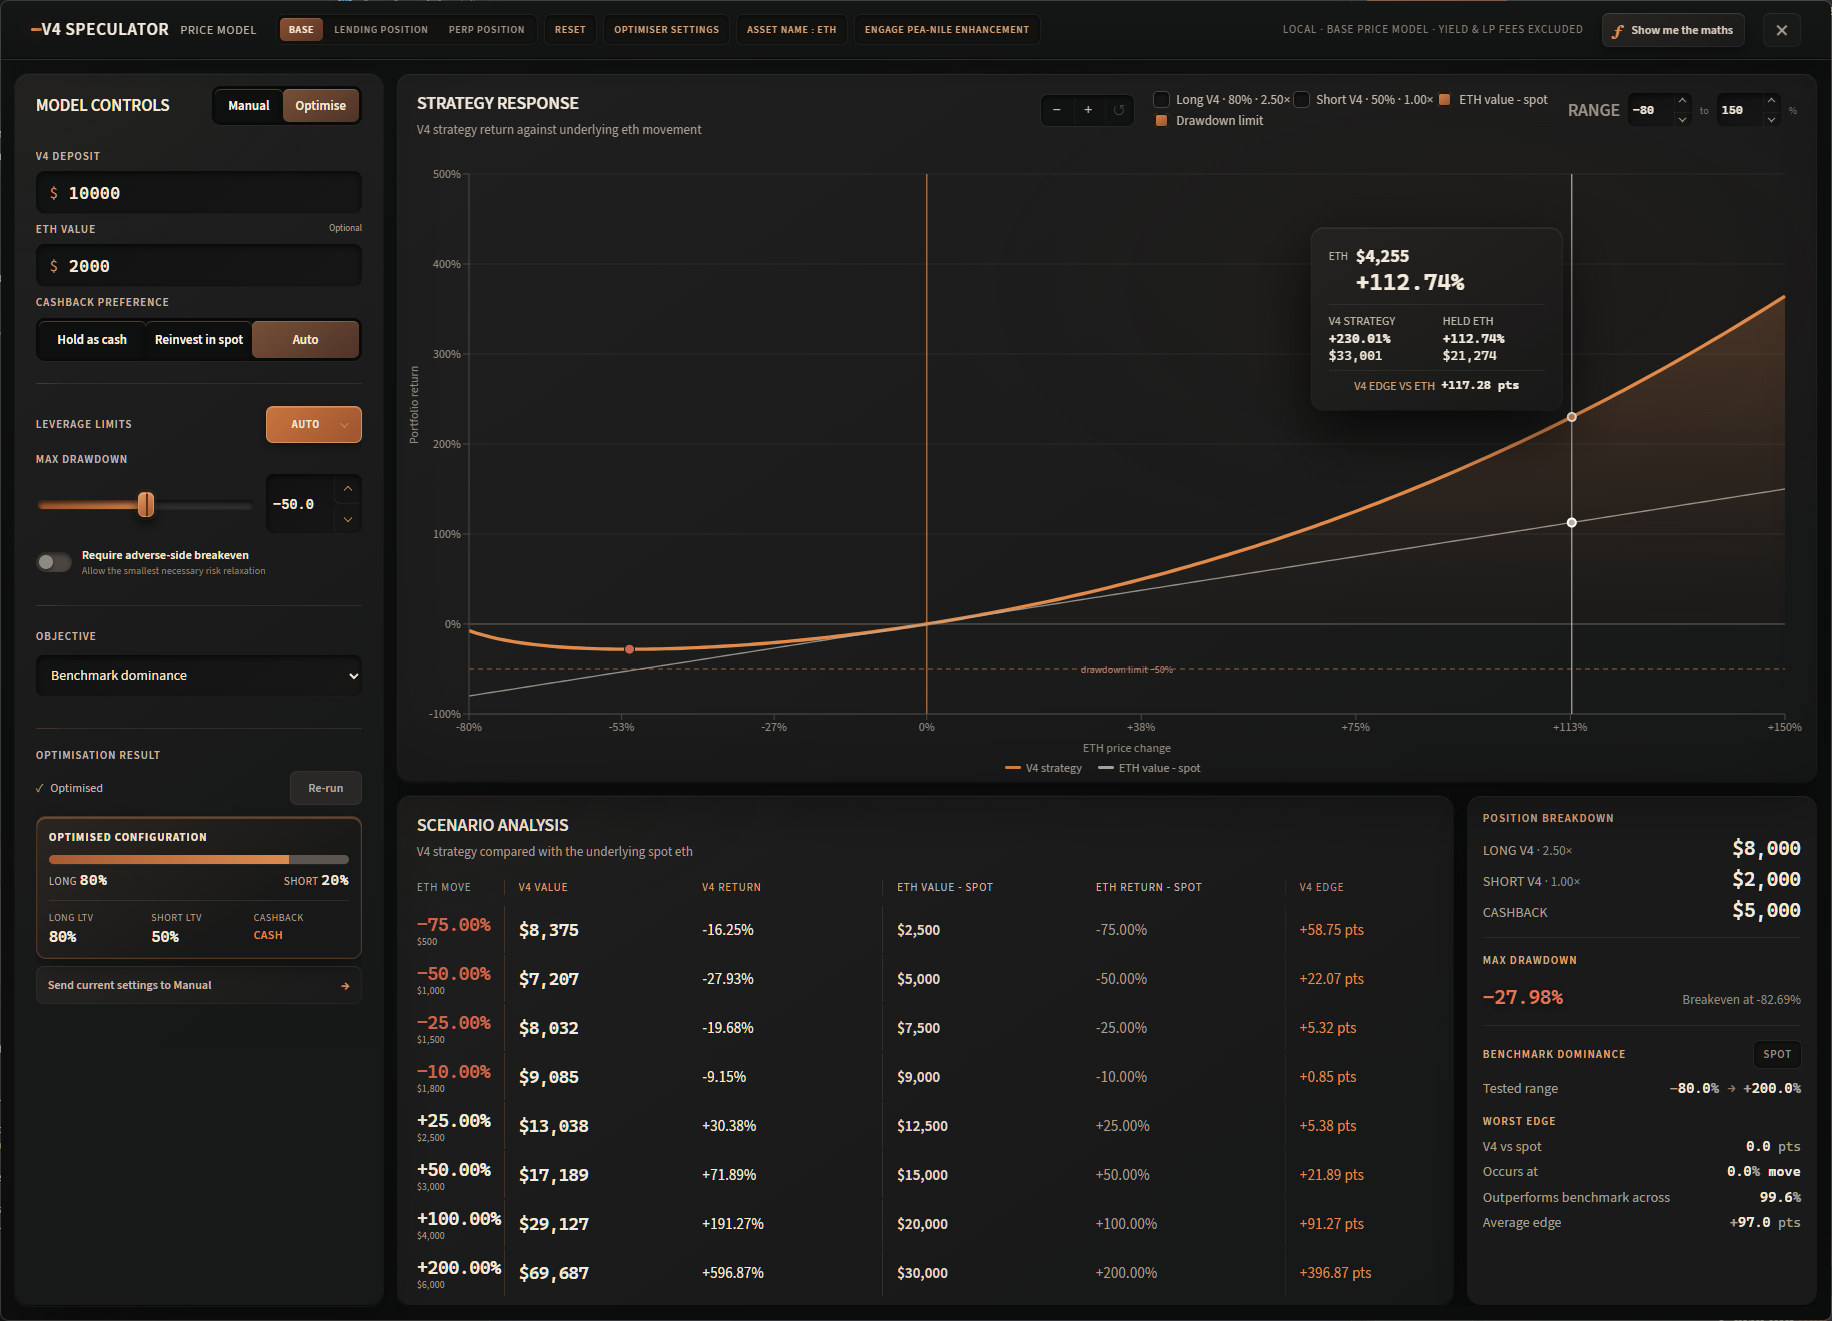
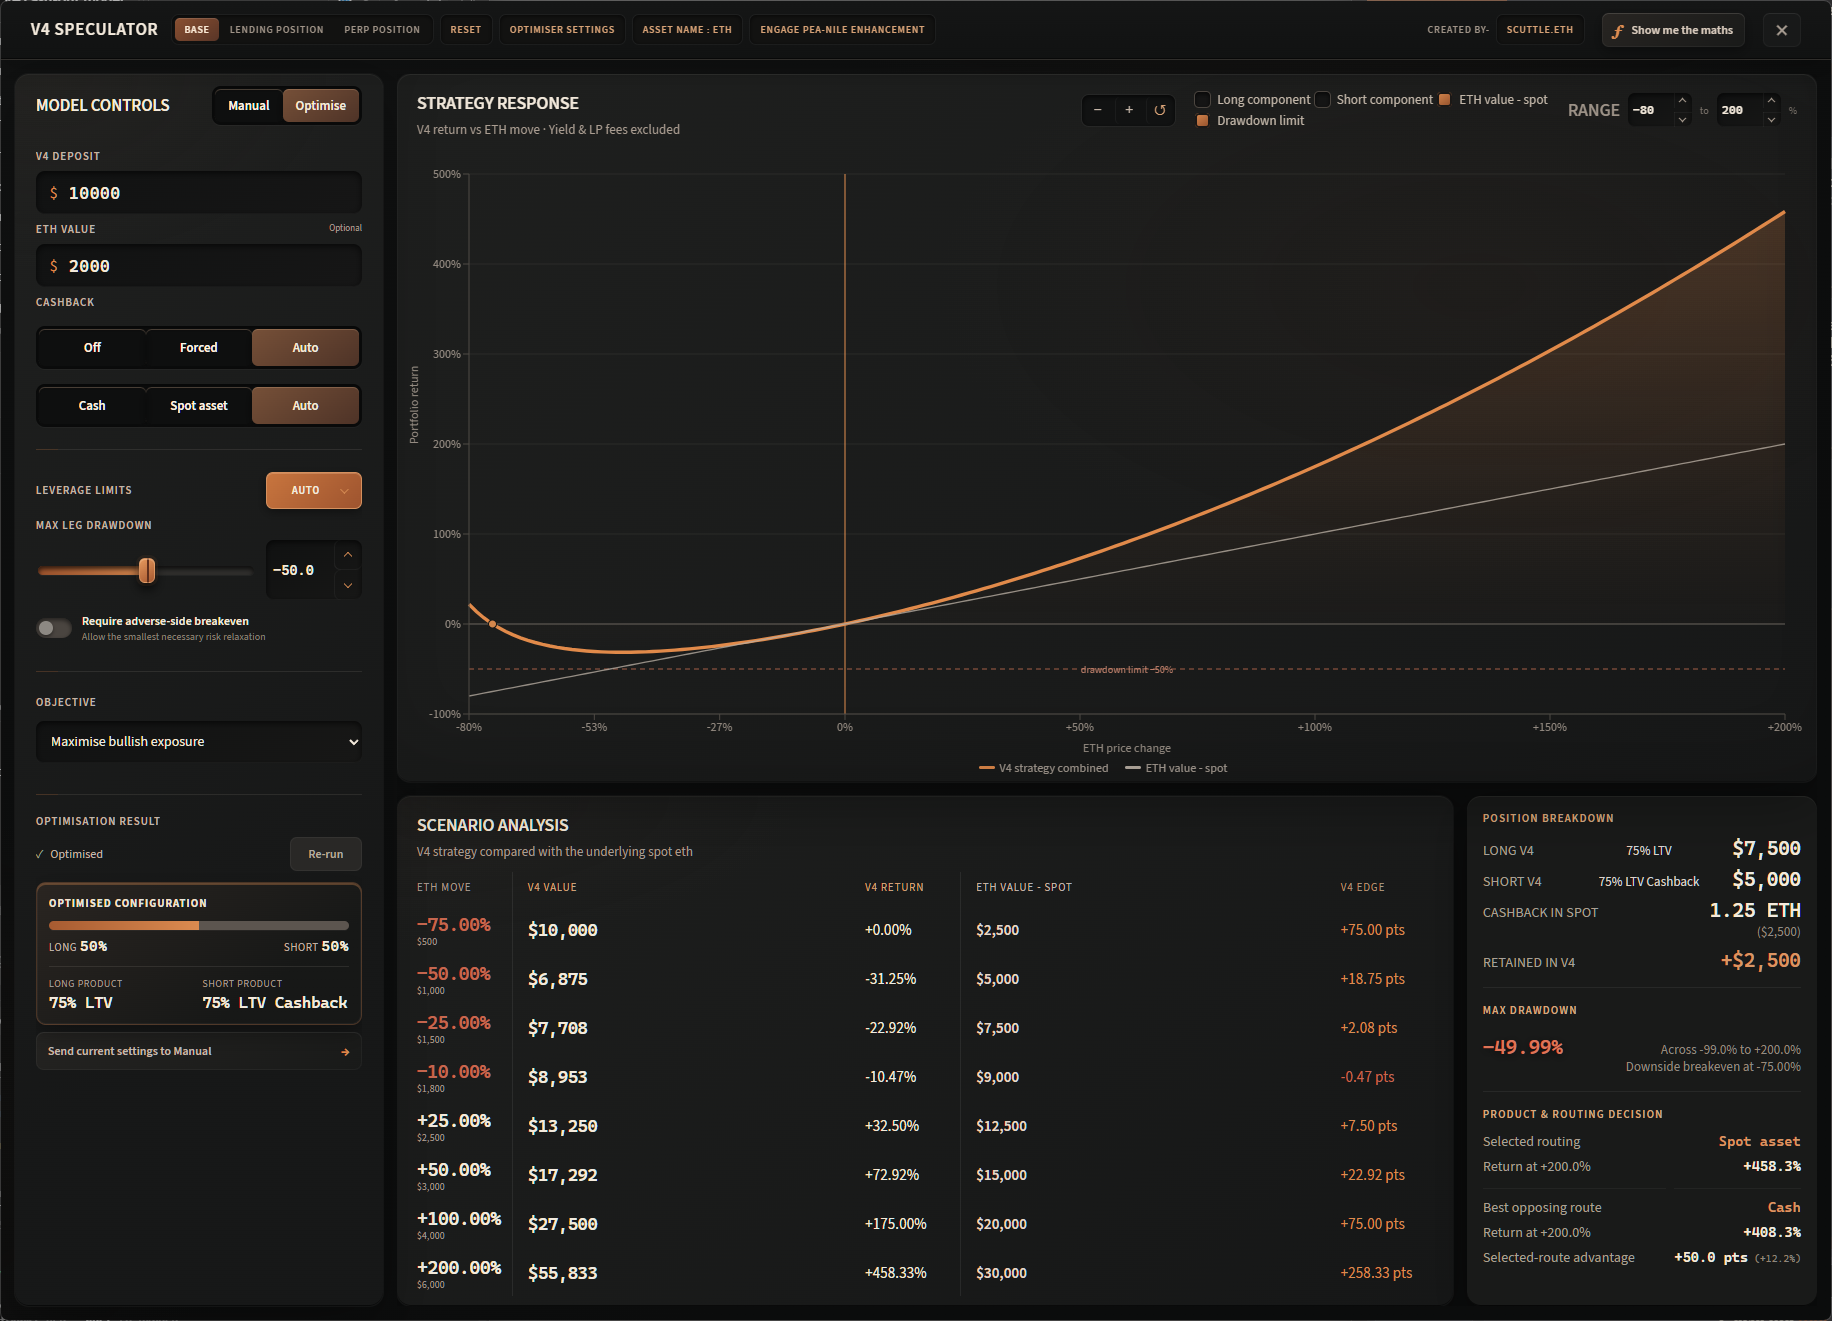
Fix optimiser reset defaults and deferred slider stepping

diff --git a/src/App.tsx b/src/App.tsx
@@ -510,10 +510,20 @@ function Slider({
 }) {
   const [rangeDraft, setRangeDraft] = useState(value);
   const rangeDraftRef = useRef(value);
+  const deferredCommitTimerRef = useRef<number | null>(null);
   useEffect(() => {
+    if (deferredCommitTimerRef.current !== null) {
+      window.clearTimeout(deferredCommitTimerRef.current);
+      deferredCommitTimerRef.current = null;
+    }
     rangeDraftRef.current = value;
     setRangeDraft(value);
   }, [value]);
+  useEffect(() => () => {
+    if (deferredCommitTimerRef.current !== null) {
+      window.clearTimeout(deferredCommitTimerRef.current);
+    }
+  }, []);
   const sliderValue = deferRangeCommit ? rangeDraft : value,
     displayValue = sliderValue,
     inputValue = signedDisplay ? -displayValue : displayValue,
@@ -531,19 +541,33 @@ function Slider({
       else onChange(snapped);
     },
     commitRangeDraft = () => {
+      if (deferredCommitTimerRef.current !== null) {
+        window.clearTimeout(deferredCommitTimerRef.current);
+        deferredCommitTimerRef.current = null;
+      }
       if (deferRangeCommit && rangeDraftRef.current !== value) onChange(rangeDraftRef.current);
     },
+    commitSteppedValue = (next: number) => {
+      const snapped = snapValue(next);
+      if (!deferRangeCommit) {
+        onChange(snapped);
+        return;
+      }
+      rangeDraftRef.current = snapped;
+      setRangeDraft(snapped);
+      if (deferredCommitTimerRef.current !== null) {
+        window.clearTimeout(deferredCommitTimerRef.current);
+      }
+      deferredCommitTimerRef.current = window.setTimeout(() => {
+        deferredCommitTimerRef.current = null;
+        if (rangeDraftRef.current !== value) onChange(rangeDraftRef.current);
+      }, 160);
+    },
     stepUp = () => {
-      const next = signedDisplay
-          ? Math.min(max, value + step)
-          : Math.min(max, value + step);
-      onChange(snapValue(next));
+      commitSteppedValue(Math.min(max, sliderValue + step));
     },
     stepDown = () => {
-      const next = signedDisplay
-        ? Math.max(min, value - step)
-        : Math.max(min, value - step);
-      onChange(snapValue(next));
+      commitSteppedValue(Math.max(min, sliderValue - step));
     },
     commitInput = (next: number) => {
       if (!Number.isFinite(next)) return;
@@ -1323,6 +1347,24 @@ export default function App() {
     manualConfig.longLtv === 0.5 && manualConfig.shortLtv === 0.5 &&
     manualConfig.longMode === "2x" && manualConfig.shortMode === "2x" &&
     manualConfig.cashbackMode === "cash";
+  const resetOptimisationOptions = createDefaultOptimisationOptions(comparisonMode, objective);
+  const resetAnalysisMoves = analysisRangeToPercent(resetOptimisationOptions.analysisRange);
+  const optimiserControlsAreResetDefaults =
+    cashbackPolicy === (resetOptimisationOptions.cashbackPolicy ?? "auto") &&
+    cashbackRouting === (resetOptimisationOptions.cashbackRouting ?? "auto") &&
+    longLtvLimit === (resetOptimisationOptions.longMaxLtv ?? resetOptimisationOptions.maxLtv) * 100 &&
+    shortLtvLimit === (resetOptimisationOptions.shortMaxLtv ?? resetOptimisationOptions.maxLtv) * 100 &&
+    bullishTarget === (resetOptimisationOptions.bullishTargetPercent ?? 200) &&
+    bearishTarget === (resetOptimisationOptions.bearishTargetPercent ?? -75) &&
+    spotParityMagnitude === resetOptimisationOptions.spotParityPercent &&
+    debtParityMagnitude === resetOptimisationOptions.debtParityPercent &&
+    perpParityMagnitude === resetOptimisationOptions.perpParityPercent &&
+    requireBreakeven === resetOptimisationOptions.requireBreakeven &&
+    downsideBreakevenMagnitude === Math.abs(resetOptimisationOptions.downsideBreakevenPercent) &&
+    upsideBreakevenMagnitude === resetOptimisationOptions.upsideBreakevenPercent &&
+    analysisMinPercent === resetAnalysisMoves.minMovePercent &&
+    analysisMaxPercent === resetAnalysisMoves.maxMovePercent &&
+    searchStep === (resetOptimisationOptions.searchStepPercent ?? 1);
   const activeComparisonIsDefault = (comparisonMode === "base"
     ? pendingConfig.deposit === INITIAL_CONFIG.deposit && baseAssetValue === 0
     : comparisonMode === "lending"
@@ -1338,7 +1380,7 @@ export default function App() {
         perpState.side === DEFAULT_PERP.side) &&
     maxDD === defaultMaxDrawdown &&
     !pendingConfig.degenEnabled &&
-    (mode !== "manual" || manualPositionIsDefault);
+    (mode === "manual" ? manualPositionIsDefault : optimiserControlsAreResetDefaults);
   const resetActiveComparison = () => {
     optimiserWorkerRef.current?.terminate();
     optimiserWorkerRef.current = null;
@@ -1375,20 +1417,35 @@ export default function App() {
         ...current,
         [comparisonMode]: { ...DEFAULT_DEGEN_SETTINGS },
       }));
+      setCashbackPolicy(resetOptimisationOptions.cashbackPolicy ?? "auto");
+      setCashbackRouting(resetOptimisationOptions.cashbackRouting ?? "auto");
+      setLongLtvLimit((resetOptimisationOptions.longMaxLtv ?? resetOptimisationOptions.maxLtv) * 100);
+      setShortLtvLimit((resetOptimisationOptions.shortMaxLtv ?? resetOptimisationOptions.maxLtv) * 100);
+      setBullishTarget(resetOptimisationOptions.bullishTargetPercent ?? 200);
+      setBearishTarget(resetOptimisationOptions.bearishTargetPercent ?? -75);
+      setSpotParityMagnitude(resetOptimisationOptions.spotParityPercent);
+      setDebtParityMagnitude(resetOptimisationOptions.debtParityPercent);
+      setPerpParityMagnitude(resetOptimisationOptions.perpParityPercent);
+      setRequireBreakeven(resetOptimisationOptions.requireBreakeven);
+      setDownsideBreakevenMagnitude(Math.abs(resetOptimisationOptions.downsideBreakevenPercent));
+      setUpsideBreakevenMagnitude(resetOptimisationOptions.upsideBreakevenPercent);
+      setAnalysisMinPercent(resetAnalysisMoves.minMovePercent);
+      setAnalysisMaxPercent(resetAnalysisMoves.maxMovePercent);
+      setSearchStep(resetOptimisationOptions.searchStepPercent ?? 1);
     }
     if (comparisonMode === "base") {
-      update("deposit", INITIAL_CONFIG.deposit);
-      setBaseAssetValue(0);
+      update("deposit", resetOptimisationOptions.deposit);
+      setBaseAssetValue(resetOptimisationOptions.baseAssetValue ?? 0);
       return;
     }
     if (comparisonMode === "lending") {
-      setAssetPrice(DEFAULT_LENDING.assetPrice);
-      setAssetAmount(DEFAULT_LENDING.assetAmount);
-      setUsdDebt(DEFAULT_LENDING.usdDebt);
-      setLiquidationLtv(DEFAULT_LENDING.liquidationLtv);
+      setAssetPrice(resetOptimisationOptions.debtPosition.assetPrice);
+      setAssetAmount(resetOptimisationOptions.debtPosition.assetAmount);
+      setUsdDebt(resetOptimisationOptions.debtPosition.usdDebt);
+      setLiquidationLtv(resetOptimisationOptions.debtPosition.liquidationLtv * 100);
       return;
     }
-    setPerpState({ ...DEFAULT_PERP });
+    setPerpState({ ...resetOptimisationOptions.perpPosition });
   };
   const persistInputsNow = () => saveCalculatorInputs({
     inputDefaultsVersion: CURRENT_INPUT_DEFAULTS_VERSION,
@@ -2384,11 +2441,11 @@ export default function App() {
                   <span>Up to 75% LTV</span>
                 </div>
                 <label className="field-label">LONG PRODUCT</label>
-                <div className="segments wide cashback-segments">
+                <div className="segments wide cashback-segments product-mode-segments">
                   {(["2x", "2.5x-cashback", "2.5x-looped"] as const).map((longMode) => <button key={longMode} className={config.longMode === longMode ? "on" : ""} onClick={() => update("longMode", longMode)}>{longModeLabel(longMode)}</button>)}
                 </div>
                 <label className="field-label">SHORT PRODUCT</label>
-                <div className="segments wide cashback-segments">
+                <div className="segments wide cashback-segments product-mode-segments">
                   {(["2x", "2.5x-cashback", "2.5x-looped"] as const).map((shortMode) => <button key={shortMode} className={config.shortMode === shortMode ? "on" : ""} onClick={() => update("shortMode", shortMode)}>{shortModeLabel(shortMode)}</button>)}
                 </div>
               </section>

diff --git a/src/styles.css b/src/styles.css
@@ -226,6 +226,11 @@ main { width: 100%; height: 100vh; min-width: 1180px; display: flex; flex-direct
 .manual-position .field-label { display: block; margin: 12px 0 6px; }
 .manual-position .section-label + .field-label { margin-top: 10px; }
 .manual-position .cashback-segments + .field-label { margin-top: 14px; }
+.manual-position .product-mode-segments {
+  display: grid;
+  grid-template-columns: .85fr 1.3fr .85fr;
+}
+.manual-position .product-mode-segments button { width: 100%; }
 .discrete-leverage-limits .field-label { display: block; margin: 10px 0 6px; }
 .discrete-leverage-limits .cashback-segments + .field-label { margin-top: 12px; }
 
